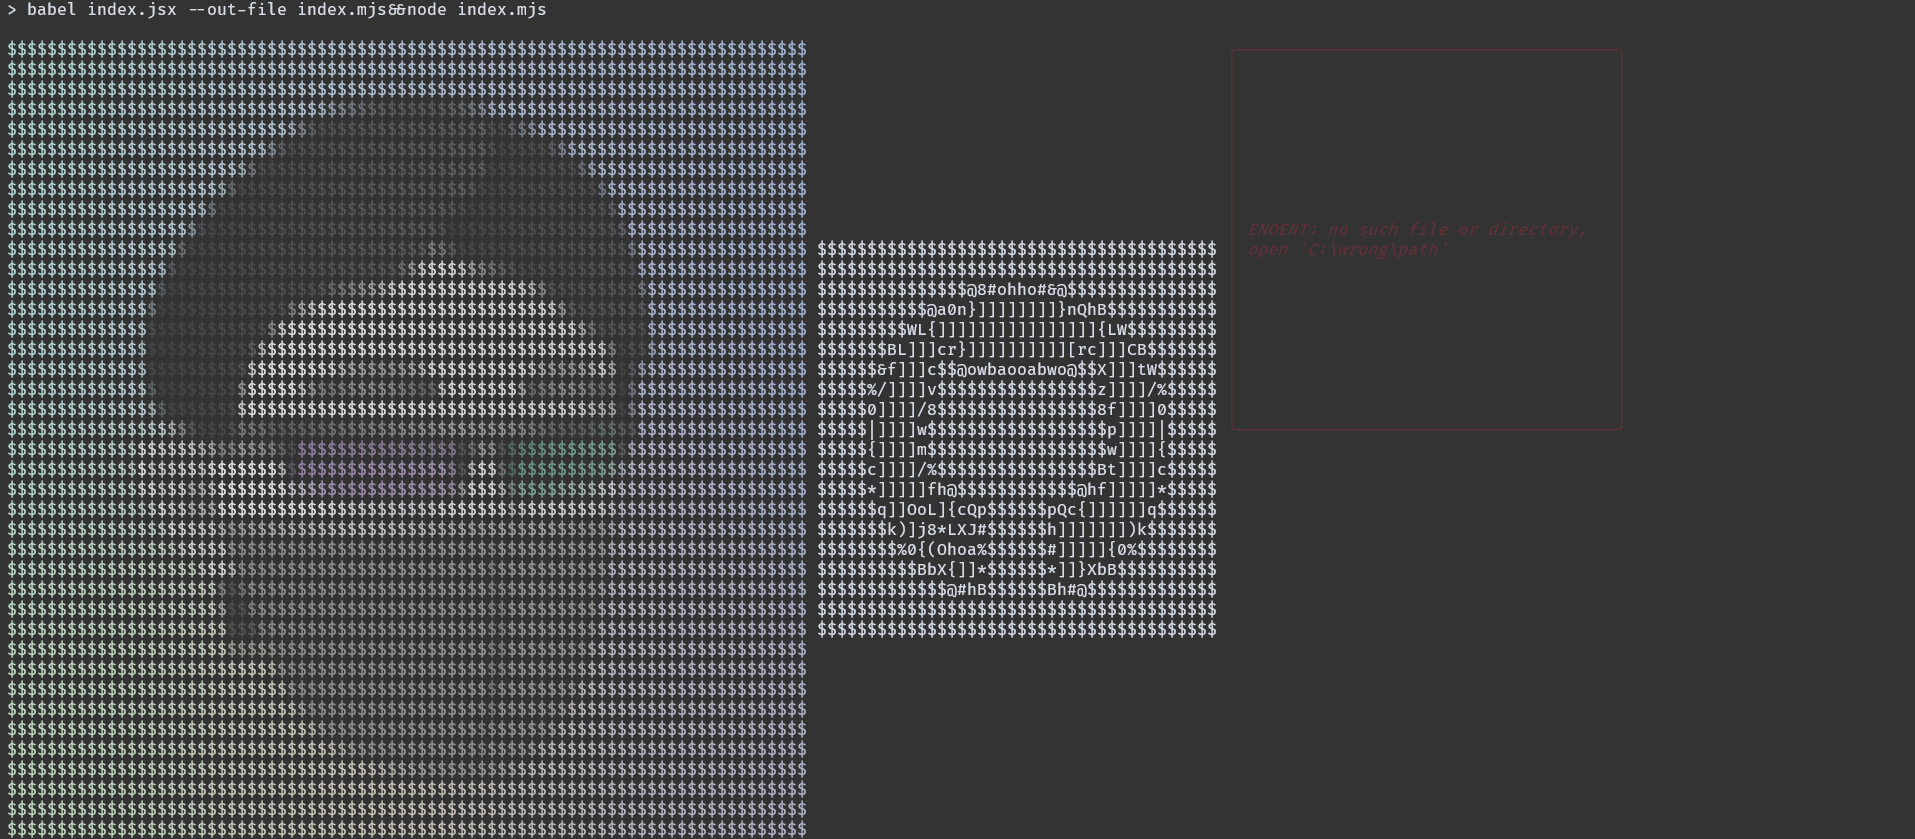
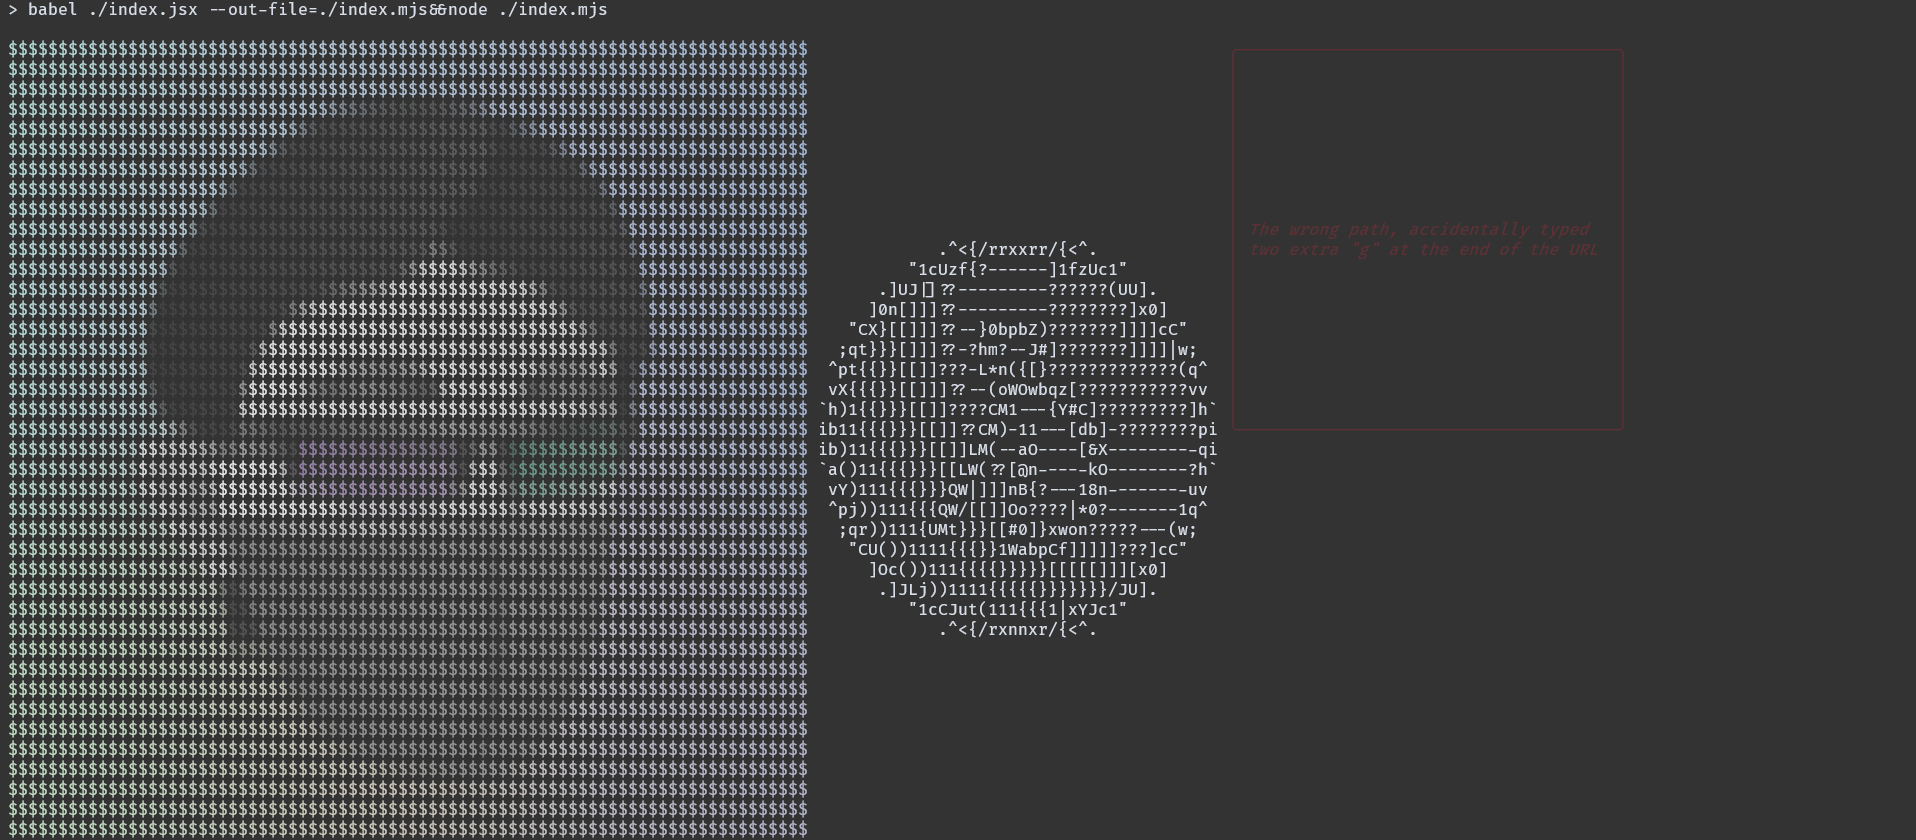
ink-asciify-image:1.1.0

Changed region(s): [[0.0, 0.0, 0.647, 1.0], [0.6778, 0.2789, 0.7394, 0.3099], [0.801, 0.2789, 0.8319, 0.3099]]

diff --git a/src/utils/image.js b/src/utils/image.js
@@ -1,9 +1,17 @@
 import { Chalk } from 'chalk'
-import jimp from 'jimp/es/index'
+import configureJimp from '@jimp/custom'
+import jpeg from '@jimp/jpeg'
+import png from '@jimp/png'
+import bmp from '@jimp/bmp'
+import resize from '@jimp/plugin-resize'
 import { getNumberArray } from './array.js'
 import { zero, one, two, three } from './number.js'
 
 const chalk = new Chalk({ level: 3 })
+const jimp = configureJimp({
+    types: [jpeg, png, bmp],
+    plugins: [resize],
+})
 
 /**
  * @param {string} url
@@ -16,13 +24,16 @@ const chalk = new Chalk({ level: 3 })
  * @returns {Promise<Array<string>>}
  * @throws {RangeError} Value of "`width`" or "`height`" must be natural number.
  */
-export const asciifyImage = async(url, options) => {
+export const asciifyImage = async(
+    url,
+    { width, height, tryCorrectAspectRatio, renderInTwoBit },
+) => {
     if (
         !(
-            Number.isInteger(options.width) &&
-            options.width > zero &&
-            Number.isInteger(options.height) &&
-            options.height > zero
+            Number.isInteger(width) &&
+            width > zero &&
+            Number.isInteger(height) &&
+            height > zero
         )
     ) {
         throw new RangeError(
@@ -33,11 +44,12 @@ export const asciifyImage = async(url, options) => {
     const mosaicAssetList =
         // eslint-disable-next-line max-len
         "....''''````^^^^\"\"\",,,,::::;;;;IIIllll!!!!iiii>>><<<<~~~~++++___----????]]]][[[}}}}{{{{1111)))((((||||////tttffffjjjjrrrrxxxnnnnuuuuvvvvccczzzzXXXXYYYYUUUJJJJCCCCLLLLQQQ0000OOOOZZZZmmmwwwwqqqqppppdddbbbbkkkkhhhhaaaoooo****####MMMWWWW&&&&8888%%%BBBB@@@@$$$$"
+    const maxAlpha = 255
 
     const image = await jimp.read(url)
     image.resize(
-        options.width,
-        Math.round(options.height / (options.tryCorrectAspectRatio ? two : one)),
+        width,
+        Math.round(height / (tryCorrectAspectRatio ? two : one)),
     )
 
     /**
@@ -58,14 +70,16 @@ export const asciifyImage = async(url, options) => {
 
             ascii = `${ascii}${
                 alpha
-                    ? options.renderInTwoBit
+                    ? renderInTwoBit
                         ? mosaicAssetList[
                             Math.floor(
-                                (three /
+                                three * alpha /
                                       // eslint-disable-next-line no-mixed-operators
-                                      (one / red + one / green + one / blue) *
-                                      alpha) **
-                                      (one / two),
+                                      (maxAlpha / red +
+                                          // eslint-disable-next-line no-mixed-operators
+                                          maxAlpha / green +
+                                          // eslint-disable-next-line no-mixed-operators
+                                          maxAlpha / blue),
                             )
                         ]
                         : chalk.rgb(red, green, blue)(mosaicAssetList[alpha])
@@ -76,9 +90,9 @@ export const asciifyImage = async(url, options) => {
         asciiList.push(ascii)
     }
 
-    if (options.tryCorrectAspectRatio) {
-        const filler = ' '.repeat(options.width)
-        const missingLineCount = options.height - image.bitmap.height
+    if (tryCorrectAspectRatio) {
+        const filler = ' '.repeat(width)
+        const missingLineCount = height - image.bitmap.height
 
         const topMissingLineCount = Math.round(missingLineCount / two)
         getNumberArray(topMissingLineCount).forEach(() => {

diff --git a/rollup.config.js b/rollup.config.js
@@ -1,7 +1,6 @@
-import commonjs from '@rollup/plugin-commonjs'
-import json from '@rollup/plugin-json'
 import nodeResolve from '@rollup/plugin-node-resolve'
 import terser from '@rollup/plugin-terser'
+import cjsToMjs from 'rollup-plugin-cjs-es'
 
 export default {
     input: './src/utils/image.js',
@@ -11,8 +10,10 @@ export default {
         sourcemap: true,
     },
     plugins: [
-        json(),
-        commonjs(),
+        cjsToMjs({
+            cache: './buildCache4Regulate',
+            nested: true,
+        }),
         nodeResolve({
             exportConditions: ['node'],
             preferBuiltins: true,

diff --git a/README.md b/README.md
@@ -24,13 +24,20 @@ render(
             alt="Author's avatar"
         />
         <InkAsciifyImage
-            url="https://github.githubassets.com/images/modules/logos_page/GitHub-Mark.png"
+            url="./icon.png"
             width={40}
             height={40}
             tryCorrectAspectRatio
             renderInTwoBit
         />
-        <InkAsciifyImage url="C:/wrong/path" width={40} height={20} />
+        <InkAsciifyImage
+            url="https://github.githubassets.com/images/modules/logos_page/GitHub-Mark.pnggg"
+            width={40}
+            height={20}
+            alt={
+                'The wrong path, accidentally typed two extra "g" at the end of the URL'
+            }
+        />
     </Box>,
 )
 ```
@@ -54,7 +61,7 @@ const InkAsciifyImage: React.FC<{
 }>;
 ```
 
--   ⁰ [`url`]: URL of the rendered image, it's based on [Jimp](https://github.com/jimp-dev/jimp).
+-   ⁰ [`url`]: URL of the rendered image, supports loading local URL, or network URL based on HTTP, supported image formats include "jpeg", "png" and "bmp".
 -   ¹ [`width`]: Width of the rendered image.
 -   ² [`height`]: Height of the rendered image.
 -   ³ [`tryCorrectAspectRatio`]: Specifies whether to attempt to correct the aspect ratio of the rendered image, it often takes two ASCII characters to render a square like pixel point, this option would not eliminate the destructive effect on the original image's aspect ratio caused by the given `width` and `height`.
@@ -67,7 +74,7 @@ const InkAsciifyImage: React.FC<{
 /**
  * @throws {RangeError} Value of `width` or `height` must be natural number.
  */
-function asciifyImage(url:⁰ string, options: {
+function asciifyImage(url:⁰ string, { width, height, tryCorrectAspectRatio, renderInTwoBit }: {
     width:¹ number;
     height:² number;
     tryCorrectAspectRatio?:³ boolean;
@@ -75,7 +82,7 @@ function asciifyImage(url:⁰ string, options: {
 }):⁵ Promise<Array<string>>;
 ```
 
--   ⁰ [`url`]: URL of the rendered image, it's based on [Jimp](https://github.com/jimp-dev/jimp).
+-   ⁰ [`url`]: URL of the rendered image, supports loading local URL, or network URL based on HTTP, supported image formats include "jpeg", "png" and "bmp".
 -   ¹ [`width`]: Width of the rendered image.
 -   ² [`height`]: Height of the rendered image.
 -   ³ [`tryCorrectAspectRatio`]: Specifies whether to attempt to correct the aspect ratio of the rendered image, it often takes two ASCII characters to render a square like pixel point, this option would not eliminate the destructive effect on the original image's aspect ratio caused by the given `width` and `height`.
@@ -88,14 +95,14 @@ function asciifyImage(url:⁰ string, options: {
 <summary>
 <h3 style="display: inline;">Why is the size of this package so large?</h3>
 </summary>
-In order to prevent developers from encountering various problems that have to be solved when using this package if they prefer ES modules, by prepackaging core function, although possible errors are reduced, the total size of the package is very large due to the use of un-customized <a href="https://github.com/jimp-dev/jimp">Jimp</a>. If you're not happy with this, you can fork the source code of this package and do it however you want. But this package is not used in browsers, so why care about the size so much?
+In order to prevent developers from encountering various problems that have to be solved when using this package, if they prefer ES modules, and let the image in the component can be rendered synchronously. By prepackaging core function, although possible errors are reduced, the total size of the package is <del>very large due to the use of un-customized <a href="https://github.com/jimp-dev/jimp">Jimp</a></del> large due to the bundle of necessary dependencies. If you're not happy with this, you can fork the source code of this package and do it however you want. But this package is not used in browsers, so why care about the size so much?
 </details>
 
 <details open>
 <summary>
 <h3 style="display: inline;">Why is this package called its current name?</h3>
 </summary>
-This package is one component for <a href="https://github.com/vadimdemedes/ink">Ink</a>, and it's inspired by <a href="https://github.com/ajay-gandhi/asciify-image">asciify-image</a>.
+This package is one component for <a href="https://github.com/vadimdemedes/ink">Ink</a>, and it is inspired by <a href="https://github.com/ajay-gandhi/asciify-image">asciify-image</a>.
 </details>
 
 ## License

diff --git a/CHANGELOG.md b/CHANGELOG.md
@@ -2,6 +2,17 @@
 
 This file is used to record [Added, Changed, Fixed, Removed] of the files that are closely related to this package.
 
+## [`1.1.0`](https://www.npmjs.com/package/ink-asciify-image/v/1.1.0) - 2023-09-01
+
+### Changed
+
+- Range decrease of supported image format.
+- Size reduction of package.
+
+### Fixed
+
+- Wrong algorithm used for 2-bit rendering.
+
 ## [`1.0.0`](https://www.npmjs.com/package/ink-asciify-image/v/1.0.0) - 2023-08-30
 
 ### Added
